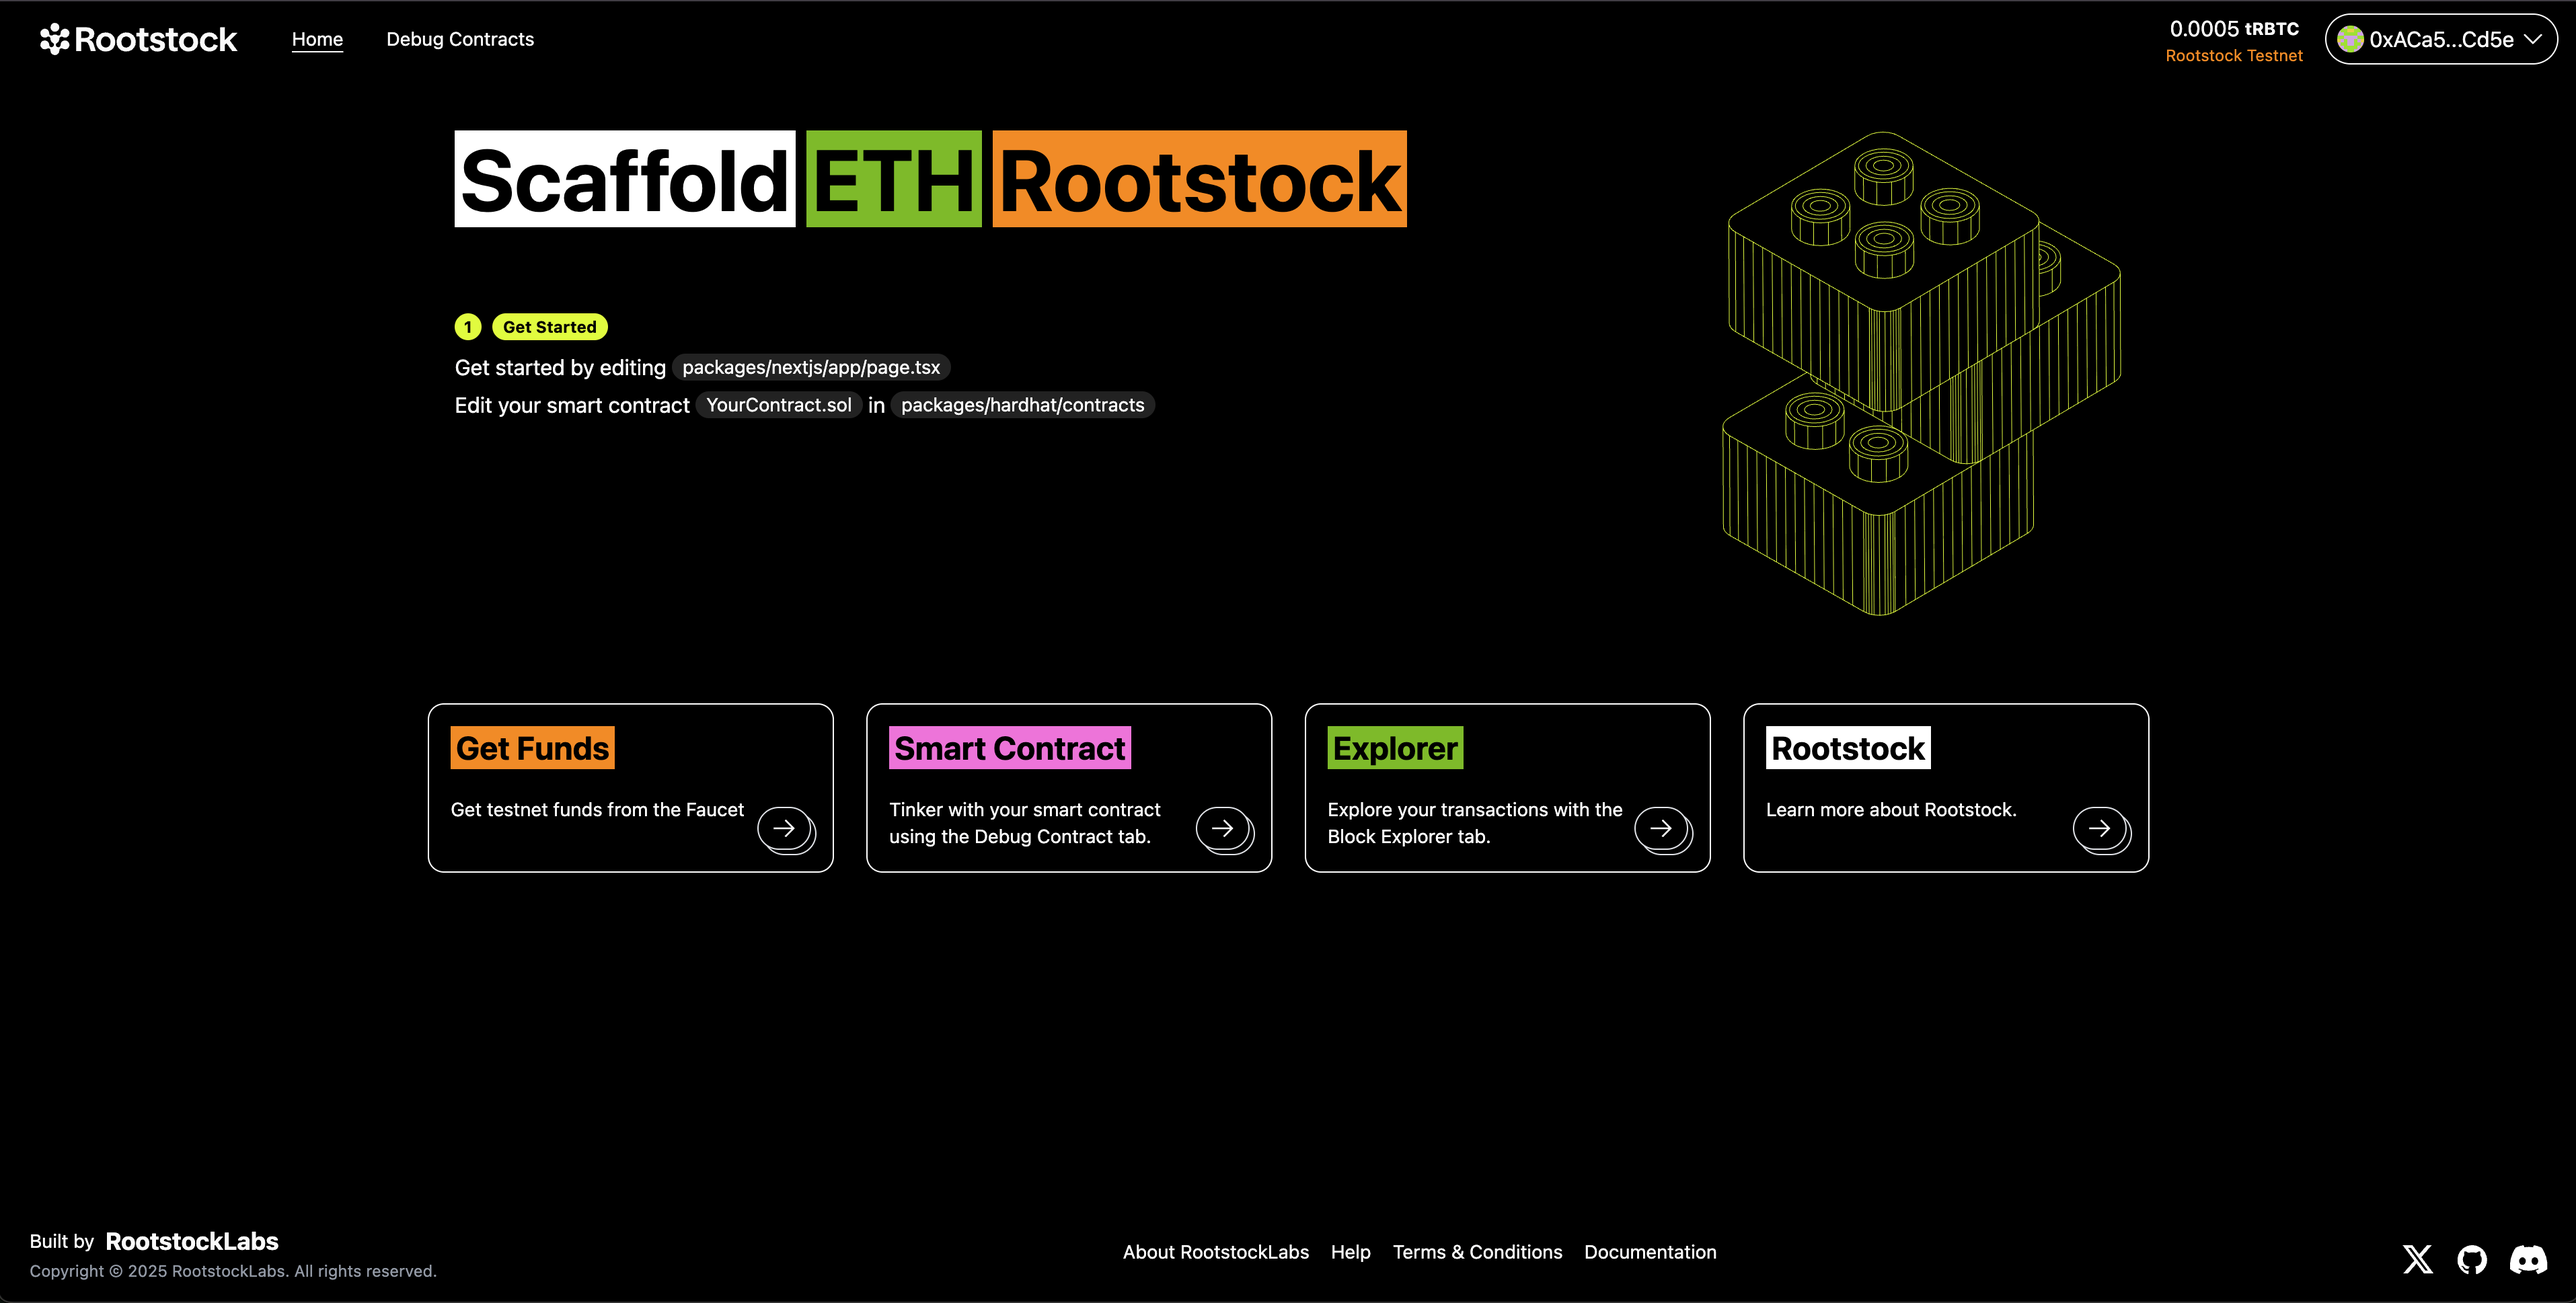
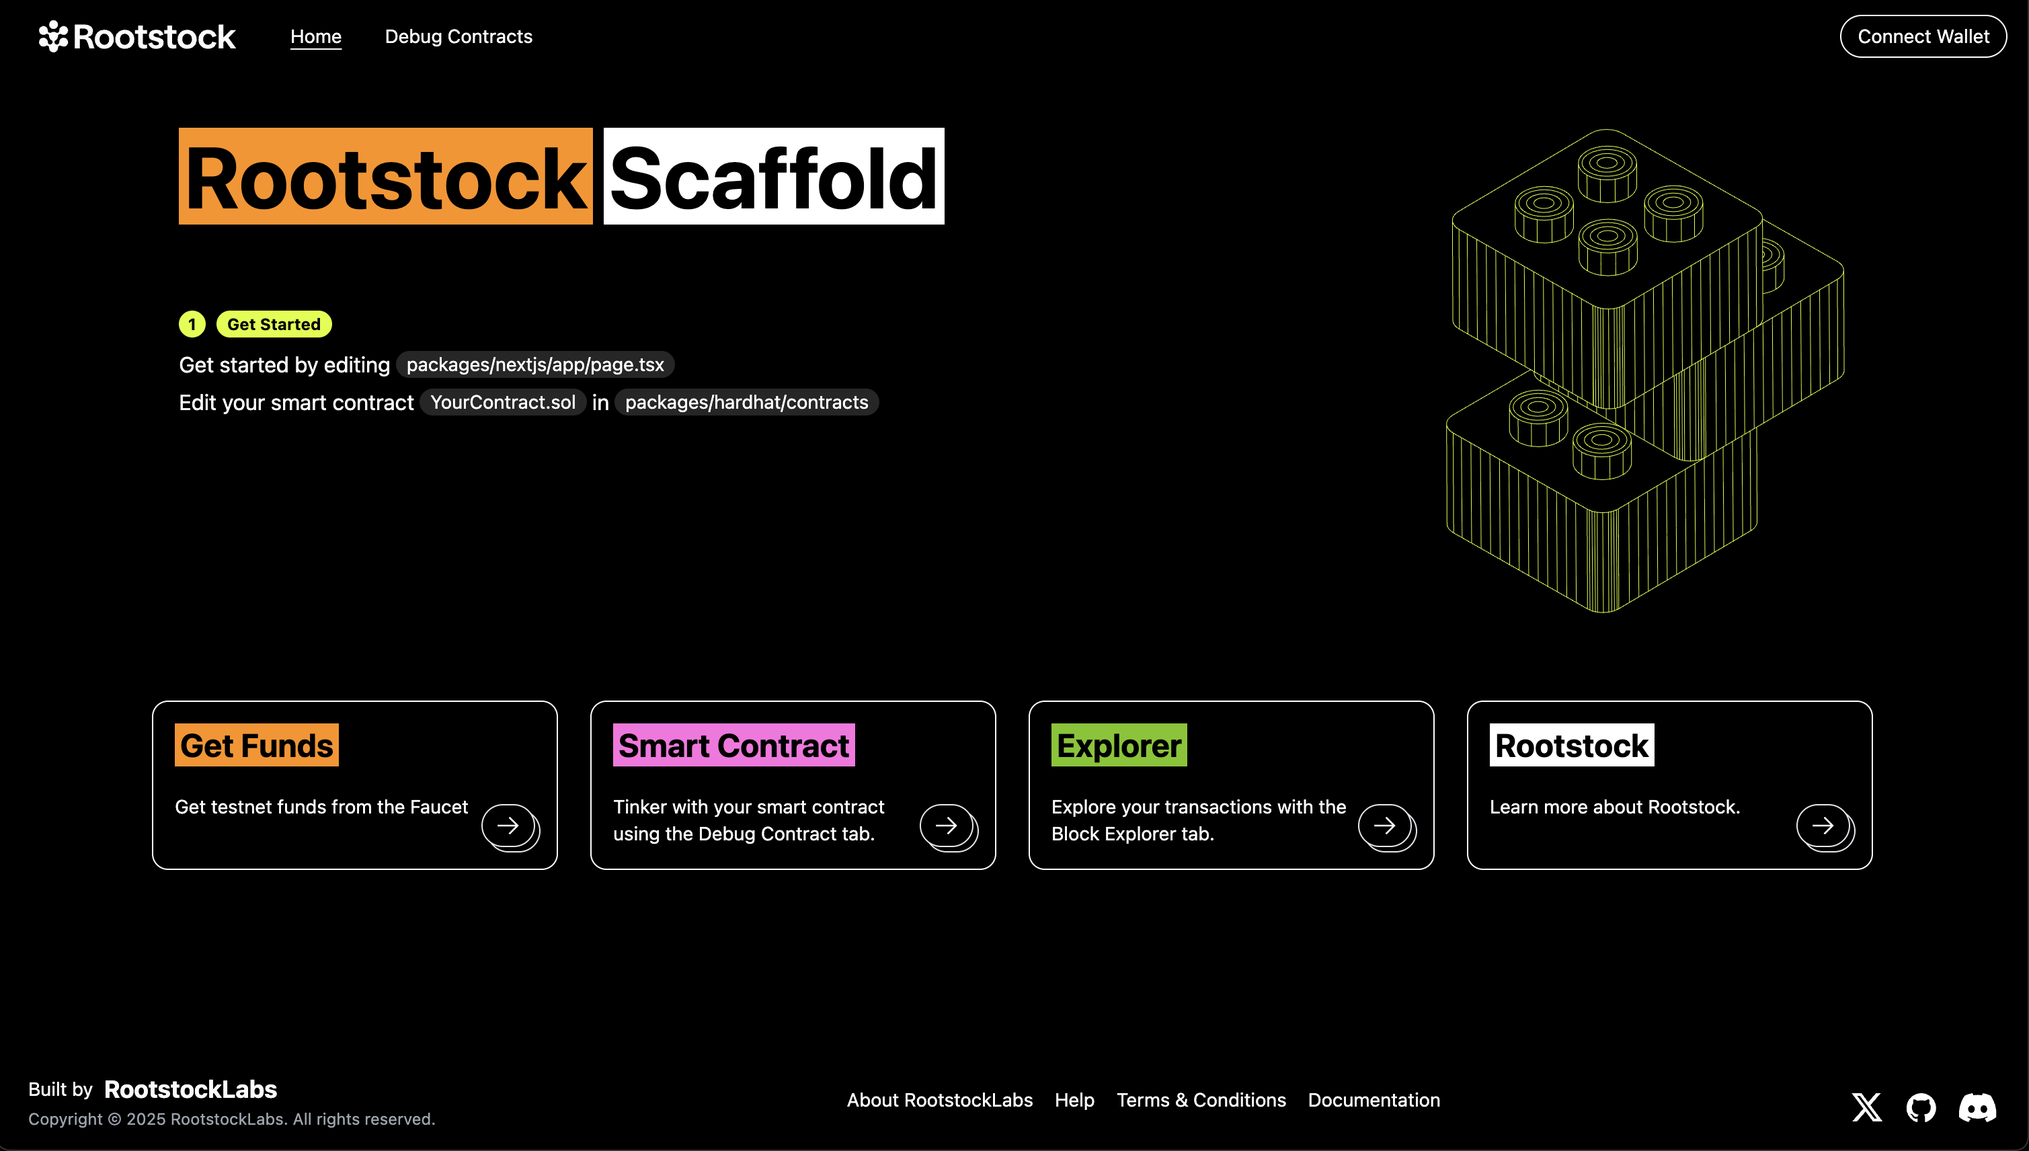
Update Title component

diff --git a/packages/nextjs/components/home/Title.tsx b/packages/nextjs/components/home/Title.tsx
@@ -3,9 +3,8 @@ import React from "react";
 function Title() {
   return (
     <h1 className="flex font-bold text-[64px] gap-2 text-black">
-      <span className="bg-white p-1">Scaffold</span>
-      <span className="bg-brand-green p-1"> ETH</span>
       <span className="bg-brand-orange p-1">Rootstock</span>
+      <span className="bg-white p-1">Scaffold</span>
     </h1>
   );
 }
